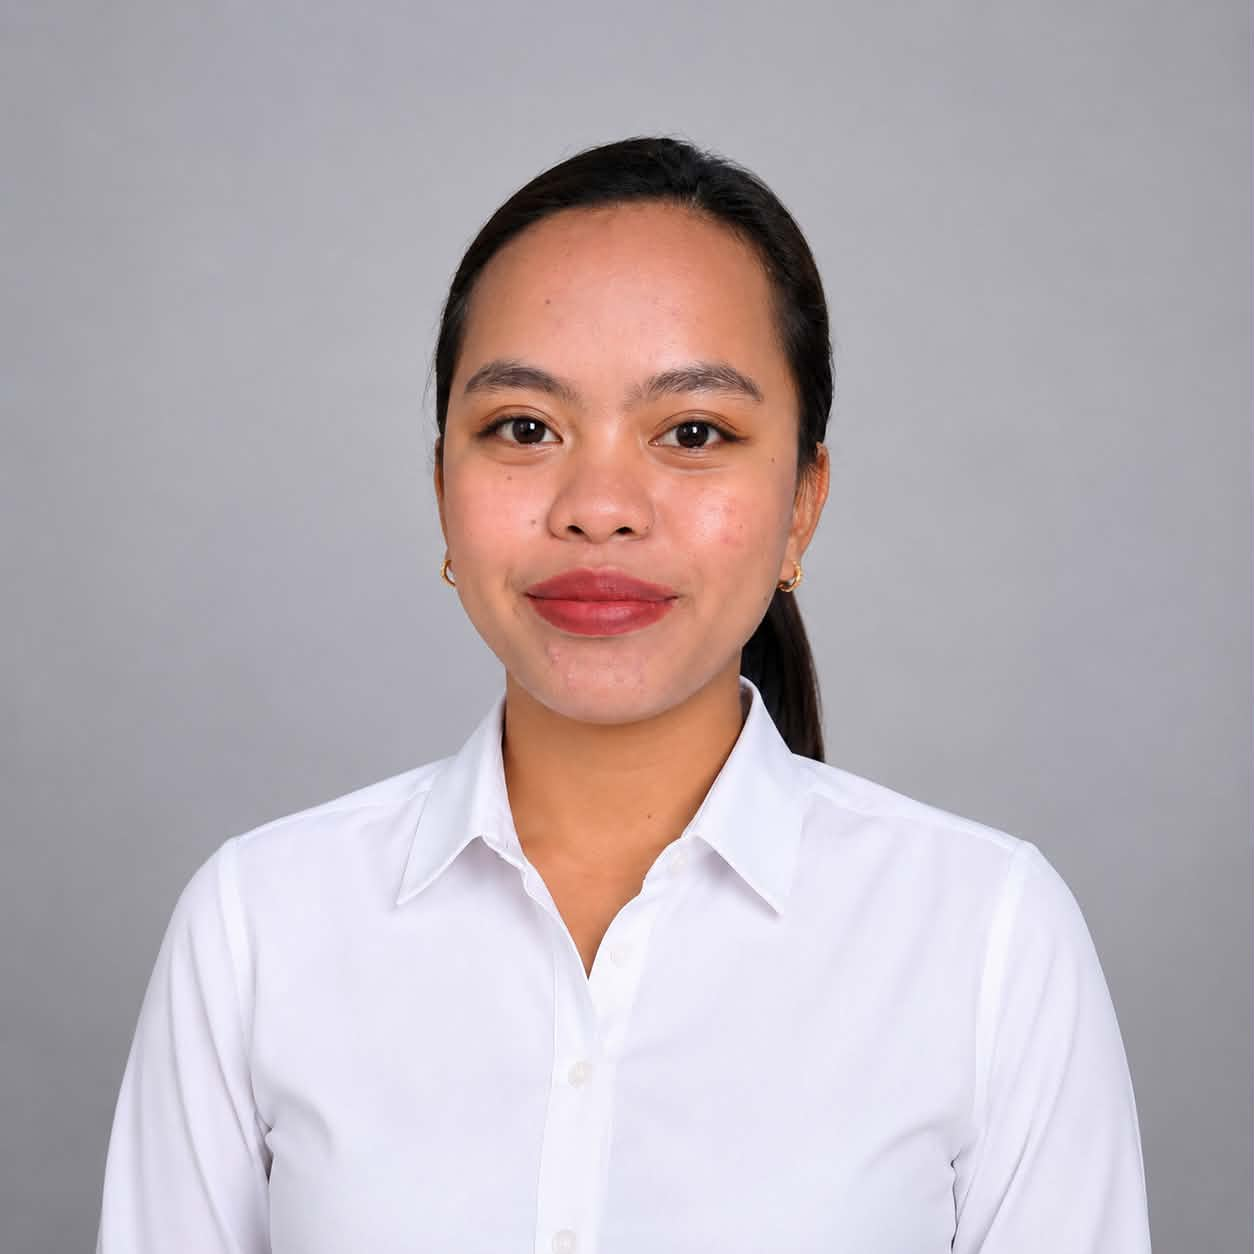
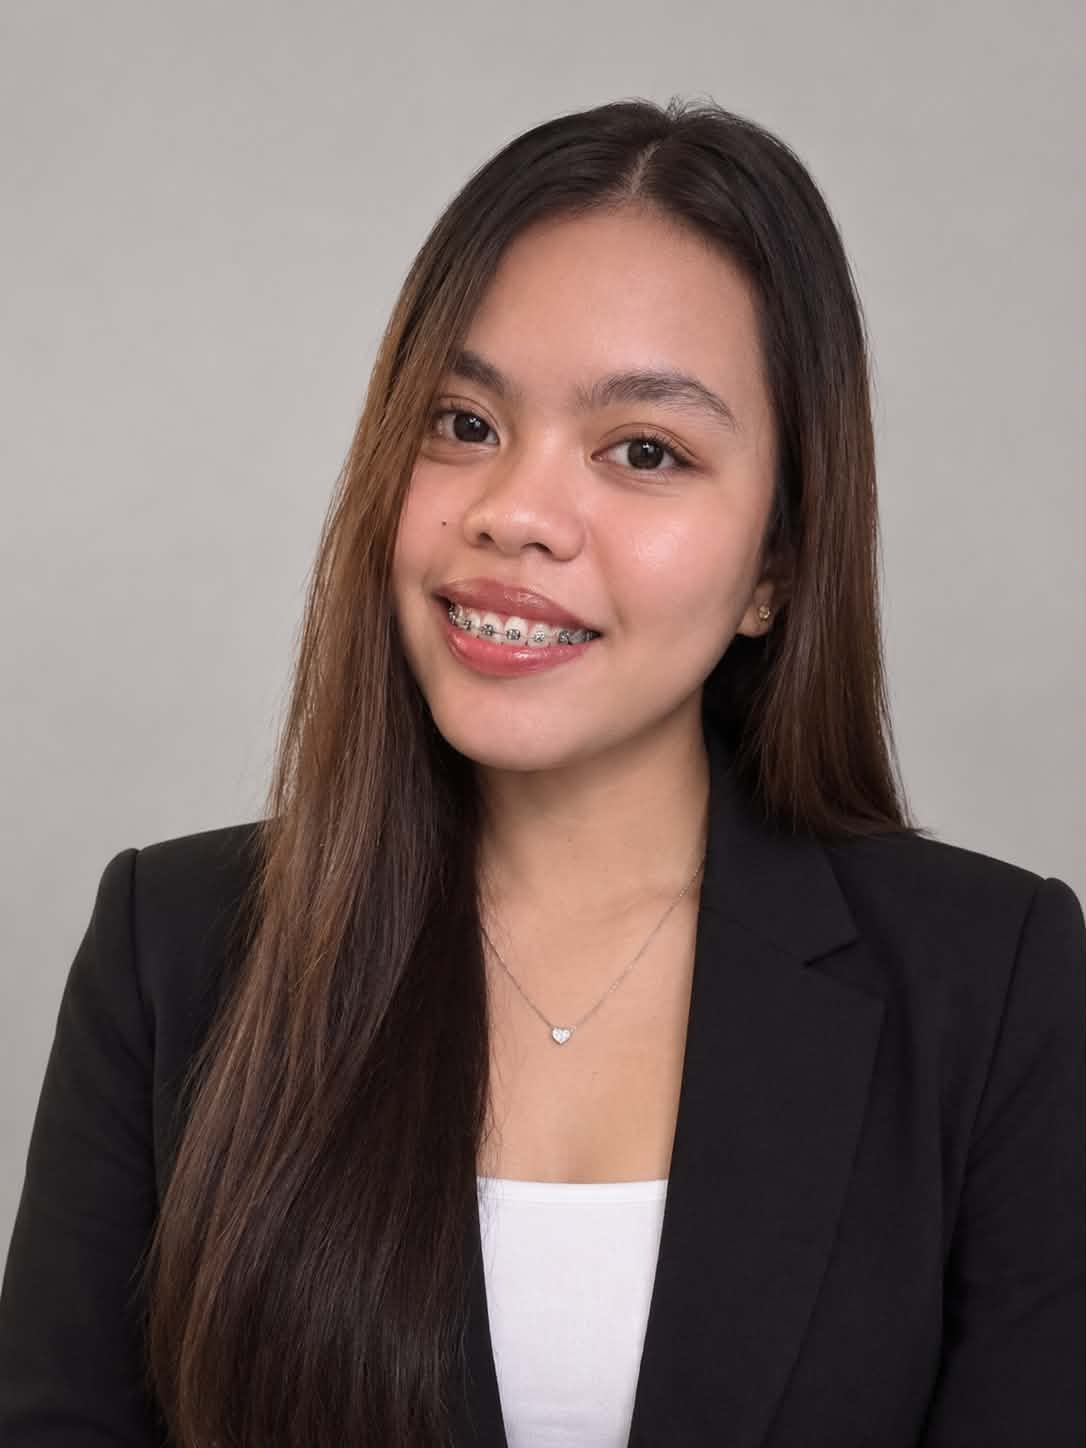
Finalize portfolio content and evidence

diff --git a/index.html b/index.html
@@ -8,6 +8,7 @@
   <link rel="preconnect" href="https://fonts.googleapis.com">
   <link rel="preconnect" href="https://fonts.gstatic.com" crossorigin>
   <link href="https://fonts.googleapis.com/css2?family=DM+Sans:wght@400;500;600;700&family=Plus+Jakarta+Sans:wght@400;500;600;700;800&display=swap" rel="stylesheet">
+  <link rel="icon" type="image/jpeg" href="img/profile/profile1.jpg">
   <link rel="stylesheet" href="css/style.css">
   <link rel="stylesheet" href="css/responsive.css">
   <link rel="stylesheet" href="css/strategy-carousel.css">
@@ -17,6 +18,9 @@
   <link rel="stylesheet" href="css/results-row.css">
   <link rel="stylesheet" href="css/online-results.css">
   <link rel="stylesheet" href="css/hero-portrait.css">
+  <link rel="stylesheet" href="css/profile-portrait.css">
+  <link rel="stylesheet" href="css/strategy-words.css">
+  <link rel="stylesheet" href="css/reflection-status.css">
   <link rel="stylesheet" href="css/print.css" media="print">
 </head>
 <body>
@@ -50,7 +54,7 @@
     <section class="section-shell about-section" id="about">
       <div class="section-intro reveal"><p class="eyebrow">01 / the person behind the work</p><h2>About <em>me</em></h2><p class="section-subtitle">The aspiring educator behind this journey.</p></div>
       <div class="about-grid">
-        <aside class="profile-panel reveal"><div class="mini-portrait"><img src="img/profile/profile1.jpg" alt="Portrait of Cindy Pearl E. Gonzaga"></div><div class="profile-details"><p class="label">Student profile</p><h3 id="about-name">Cindy Pearl E. Gonzaga</h3><dl><div><dt>Program</dt><dd>BSEd Social Studies</dd></div><div><dt>Standing</dt><dd>4th year · 22 years old</dd></div><div><dt>Course</dt><dd>ISED 2</dd></div><div><dt>Institution</dt><dd>[Add institution]</dd></div></dl></div><div class="profile-tag">future educator <span>↗</span></div></aside>
+        <aside class="profile-panel reveal"><div class="mini-portrait"><img src="img/profile/profile1.jpg" alt="Portrait of Cindy Pearl E. Gonzaga"></div><div class="profile-details"><p class="label">Student profile</p><h3 id="about-name">Cindy Pearl E. Gonzaga</h3><dl><div><dt>Program</dt><dd>BSEd Social Studies</dd></div><div><dt>Standing</dt><dd>4th year · 22 years old</dd></div><div><dt>Course</dt><dd>ISED 2</dd></div><div><dt>Institution</dt><dd>Bukidnon State University</dd></div></dl></div><div class="profile-tag">future educator <span>↗</span></div></aside>
         <div class="about-copy reveal reveal-delay"><p class="label coral-label">A note from me</p><div class="editable-copy"><h3>Who I am</h3>
             <p>I am Cindy Pearl E. Gonzaga, an aspiring Social Studies teacher with a heart full of dreams and a willingness to learn. I may not have everything figured out yet, but I carry a strong desire to grow, improve, and become someone my future students can look up to. Behind this journey is a person who is still learning, making mistakes, and finding her way toward the dream she hopes to fulfill someday.</p><h3>Why I want to become a teacher</h3><p>I want to become a teacher because I believe that every child deserves someone who believes in them, especially when they struggle to believe in themselves. I want to be more than a teacher who stands in front of a classroom; I want to be someone who listens, understands, and inspires. Someday, I hope my students will remember me not only for the lessons I taught but also for the kindness I showed and the difference I made in their lives.</p><h3>My learning mindset</h3><p>I know that becoming a good teacher does not happen overnight. There will be moments when I doubt myself, make mistakes, and feel that I am not doing enough. But I choose to keep learning, because every challenge brings me closer to the teacher I dream of becoming. I may not be the best teacher today, but I promise to keep growing, because someday, a student might need the very best version of me.</p></div></div>
       </div>
@@ -71,8 +75,7 @@
         <div class="strategy-story-copy"><p class="label coral-label">My approach to examinations</p><h3>Learning is more than a score.</h3><p>Before a test, I review my notes, focus on important lessons, and manage my time to prepare well. I try to understand the topics rather than simply memorize them. Although I sometimes feel nervous, I remind myself to stay focused and trust the effort I have given.</p><p>During a test, I carefully read each question, answer the easiest ones first, and use the elimination method when I am unsure. I also manage my time wisely and remain calm so I can think clearly.</p><p>These strategies help me become more confident, disciplined, and responsible as a learner. I believe that tests are not only about getting high scores but also about discovering what I know and what I still need to improve.</p><blockquote>Every examination is an opportunity to learn, grow, and become better — not only as a student but also as a future teacher.</blockquote></div>
       </div>
       <div class="strategy-tabs" role="tablist" aria-label="Test-taking phases"><button class="strategy-tab active" role="tab" aria-selected="true" data-tab="before">Before the test</button><button class="strategy-tab" role="tab" aria-selected="false" data-tab="during">During the test</button><button class="strategy-tab" role="tab" aria-selected="false" data-tab="after">After the test</button></div>
-      <div class="strategy-grid" id="strategy-grid"></div>
-      <div class="strategy-footer"><div class="personal-strategy"><p class="label coral-label">My most effective strategy</p><h3 contenteditable="true">[Name the strategy that works best for you]</h3><p contenteditable="true">[Explain why this strategy supports your learning and how you know it helps.]</p></div><div class="checklist-panel"><div class="panel-heading"><span class="label">Quick preparation check</span><span class="check-count" id="check-count">0 / 5</span></div><div id="prep-checklist"></div></div></div>
+      <div class="strategy-words" id="strategy-grid"></div>
     </section>
 
     <section class="section-shell results-section" id="results">
@@ -84,6 +87,10 @@
         <figure class="row-evidence-card reveal"><button class="row-image-button" type="button" data-result-image="img/Test_Results_and_Compilation/Test_Results_and_Compilation3.png" data-result-title="Professional Education Assessment 03"><img src="img/Test_Results_and_Compilation/Test_Results_and_Compilation3.png" alt="Professional Education assessment evidence 3"></button><figcaption><span>Evidence 03</span><h3>Professional Education assessment</h3><p>Score: <strong contenteditable="true">10/10</strong></p></figcaption></figure>
         <figure class="row-evidence-card reveal"><button class="row-image-button" type="button" data-result-image="img/Test_Results_and_Compilation/Test_Results_and_Compilation4.png" data-result-title="Professional Education Assessment 04"><img src="img/Test_Results_and_Compilation/Test_Results_and_Compilation4.png" alt="Professional Education assessment evidence 4"></button><figcaption><span>Evidence 04</span><h3>Professional Education assessment</h3><p>Score: <strong contenteditable="true">9/10</strong></p></figcaption></figure>
       </div>
+      <div class="results-subheading"><p class="label coral-label">Summative assessment</p><h3>Summative test evidence</h3></div>
+      <div class="results-row summative-results-row" aria-label="Summative test evidence row">
+        <figure class="row-evidence-card reveal"><button class="row-image-button" type="button" data-result-image="img/summativetest/summativetest1.jpg" data-result-title="Summative Test"><img src="img/summativetest/summativetest1.jpg" alt="Summative test evidence for Cindy Pearl E. Gonzaga"></button><figcaption><span>Summative test 01</span><h3>Summative Test</h3><p>Score: <strong contenteditable="true">60</strong></p></figcaption></figure>
+      </div>
       <div class="results-subheading"><p class="label coral-label">Online assessments</p><h3>Online quiz evidence</h3></div>
       <div class="results-row online-results-row" aria-label="Online quiz evidence row">
         <figure class="row-evidence-card reveal"><button class="row-image-button" type="button" data-result-image="img/onlinequiz/onlinequiz1.png" data-result-title="Prof Ed 1 Long Quiz"><img src="img/onlinequiz/onlinequiz1.png" alt="Prof Ed 1 Long Quiz result screenshot"></button><figcaption><span>Online quiz 01</span><h3>Prof Ed 1 Long Quiz</h3><p>Score: <strong contenteditable="true">43/50</strong></p></figcaption></figure>
@@ -94,18 +101,16 @@
       </div>
     </section>
 
-    <section class="section-shell timeline-section"><div class="section-intro reveal"><p class="eyebrow">04 / the semester in motion</p><h2>A learning <em>timeline</em></h2><p class="section-subtitle">A flexible map of moments worth noticing.</p></div><div class="timeline" id="timeline"></div></section>
+    <section class="section-shell reflection-section" id="midterm"><div class="section-intro split-intro reveal"><div><p class="eyebrow">04 / pause and notice</p><h2>Midterm<br><em>reflection</em></h2></div><p class="section-subtitle">Understanding my progress during the first half of the semester.</p></div><div class="reflection-pending reveal"><span class="pending-mark">—</span><div><p class="label">Status update</p><h3>Midterm reflection not yet available</h3><p>This space will be completed after the midterm assessments and personal reflection are finished.</p></div></div></section>
 
-    <section class="section-shell reflection-section" id="midterm"><div class="section-intro split-intro reveal"><div><p class="eyebrow">05 / pause and notice</p><h2>Midterm<br><em>reflection</em></h2></div><p class="section-subtitle">Understanding my progress during the first half of the semester.</p></div><div class="reflection-layout"><div class="journal-card reveal"><span class="journal-stamp">midterm notes</span><div id="midterm-reflection"></div></div><aside class="goals-card reveal reveal-delay"><p class="label">Midterm learning goals</p><h3>What I carry forward</h3><div id="midterm-goals"></div></aside></div></section>
+    <section class="section-shell reflection-section final-section" id="final"><div class="section-intro split-intro reveal"><div><p class="eyebrow">05 / look back, look ahead</p><h2>Final Term<br><em>Reflection</em></h2></div><p class="section-subtitle">Growth, progress, and readiness for the teaching profession.</p></div><div class="reflection-pending reveal"><span class="pending-mark">—</span><div><p class="label">Status update</p><h3>Final-term reflection not yet available</h3><p>This space will be completed after the final-term assessments and personal reflection are finished.</p></div></div></section>
 
-    <section class="section-shell reflection-section final-section" id="final"><div class="section-intro split-intro reveal"><div><p class="eyebrow">06 / look back, look ahead</p><h2>Final Term<br><em>Reflection</em></h2></div><p class="section-subtitle">Growth, progress, and readiness for the teaching profession.</p></div><div class="reflection-layout"><div class="journal-card final-journal reveal"><span class="journal-stamp">final notes</span><div id="final-reflection"></div><div class="commitment"><p class="label coral-label">My commitment as a future educator</p><p contenteditable="true">My journey as a future educator continues beyond the classroom. Every examination, challenge, and reflection offers an opportunity to become more prepared, responsible, and committed to the teaching profession.</p></div></div><aside class="comparison-card reveal reveal-delay"><p class="label">Midterm <span>→</span> Final term</p><div class="comparison-block"><span>Lessons learned</span><p contenteditable="true">[What did I learn first?]</p></div><div class="comparison-block"><span>Strategies refined</span><p contenteditable="true">[What changed in my approach?]</p></div><div class="comparison-block"><span>Continued growth</span><p contenteditable="true">[What remains important next?]</p></div></aside></div></section>
-
-    <section class="section-shell goals-section"><div class="progress-summary"><div class="summary-lead"><p class="eyebrow">07 / keep becoming</p><h2>Small steps,<br><em>steady growth.</em></h2><p>Learning is not a finished checklist. It is a practice I return to with curiosity and care.</p></div><div class="summary-stats"><div><strong id="strategy-count">0</strong><span>strategies explored</span></div><div><strong id="assessment-count">0</strong><span>assessments documented</span></div><div><strong>2</strong><span>reflection spaces</span></div></div></div><div class="goals-list"><div><p class="label">Personal learning goals</p><h3>What I am working toward</h3></div><div id="learning-goals"></div></div></section>
+    <section class="section-shell goals-section"><div class="progress-summary"><div class="summary-lead"><p class="eyebrow">06 / keep becoming</p><h2>Small steps,<br><em>steady growth.</em></h2><p>Learning is not a finished checklist. It is a practice I return to with curiosity and care.</p></div><div class="summary-stats"><div><strong id="strategy-count">0</strong><span>strategies explored</span></div><div><strong id="assessment-count">0</strong><span>assessments documented</span></div><div><strong>2</strong><span>reflection spaces</span></div></div></div></section>
   </main>
 
-  <footer class="site-footer"><div><a class="brand footer-brand" href="#home"><span class="brand-mark">CP</span><span>Learning<br><em>journey</em></span></a><p>Learning, reflecting, and growing toward the teaching profession.</p></div><div class="footer-details"><p><strong>ISED 2</strong><br>Seminar in Professional Education</p><p><strong id="footer-name">Cindy Pearl E. Gonzaga</strong><br>[Institution Name] · [Academic Year]</p></div><div class="footer-links"><a href="#about">About</a><a href="#strategies">Strategies</a><a href="#results">Results</a><a href="#midterm">Reflections</a></div></footer>
+  <footer class="site-footer"><div><a class="brand footer-brand" href="#home"><span class="brand-mark">CP</span><span>Learning<br><em>journey</em></span></a><p>Learning, reflecting, and growing toward the teaching profession.</p></div><div class="footer-details"><p><strong>ISED 2</strong><br>Seminar in Professional Education</p><p><strong id="footer-name">Cindy Pearl E. Gonzaga</strong><br>Bukidnon State University · 2026/2027</p></div><div class="footer-links"><a href="#about">About</a><a href="#strategies">Strategies</a><a href="#results">Results</a><a href="#midterm">Reflections</a></div></footer>
   <button class="back-top" id="back-top" type="button" aria-label="Back to top">↑</button>
-  <div class="modal" id="evidence-modal" aria-hidden="true" role="dialog" aria-modal="true" aria-labelledby="modal-title"><div class="modal-backdrop" data-close-modal></div><div class="modal-card"><button class="modal-close" data-close-modal aria-label="Close evidence viewer">×</button><p class="label">Evidence viewer</p><h2 id="modal-title">Assessment evidence</h2><div class="modal-preview" id="modal-preview"></div><p id="modal-score"></p></div></div>
+  <div class="modal" id="evidence-modal" aria-hidden="true" role="dialog" aria-modal="true" aria-labelledby="modal-title"><div class="modal-backdrop" data-close-modal onclick="document.getElementById('evidence-modal').classList.remove('open');document.getElementById('evidence-modal').setAttribute('aria-hidden','true')"></div><div class="modal-card"><button class="modal-close" data-close-modal onclick="document.getElementById('evidence-modal').classList.remove('open');document.getElementById('evidence-modal').setAttribute('aria-hidden','true')" aria-label="Close evidence viewer">×</button><p class="label">Evidence viewer</p><h2 id="modal-title">Assessment evidence</h2><div class="modal-preview" id="modal-preview"></div><p id="modal-score"></p></div></div>
   <script src="js/data.js"></script><script src="js/navigation.js"></script><script src="js/assessments.js"></script><script src="js/strategy-carousel.js"></script><script src="js/animations.js"></script><script src="js/main.js"></script><script src="js/results-gallery.js"></script>
 </body>
 </html>

diff --git a/js/assessments.js b/js/assessments.js
@@ -1,14 +1,16 @@
 const strategyGrid = document.querySelector('#strategy-grid');
 const strategyTabs = document.querySelectorAll('.strategy-tab');
-function renderStrategies(key='before'){ strategyGrid.innerHTML = portfolioData.strategies[key].map(([number,title,text]) => `<article class="strategy-card"><span class="card-number">${number}</span><h3>${title}</h3><p contenteditable="true">${text}</p></article>`).join(''); }
-strategyTabs.forEach(tab => tab.addEventListener('click', () => { strategyTabs.forEach(item => { item.classList.remove('active'); item.setAttribute('aria-selected','false'); }); tab.classList.add('active'); tab.setAttribute('aria-selected','true'); strategyGrid.classList.remove('visible'); requestAnimationFrame(() => { renderStrategies(tab.dataset.tab); strategyGrid.classList.add('visible'); }); }));
+function renderStrategies(key='before'){ if(!strategyGrid)return; const descriptions=portfolioData.strategies[key].map(([,title,text]) => `${title}: ${text}`); strategyGrid.innerHTML = `<article class="strategy-word-block"><h3>${key === 'before' ? 'Before the test' : key === 'during' ? 'During the test' : 'After the test'}</h3><p contenteditable="true">${descriptions.join(' ')}</p></article>`; }
+strategyTabs.forEach(tab => tab.addEventListener('click', () => { strategyTabs.forEach(item => { item.classList.remove('active'); item.setAttribute('aria-selected','false'); }); tab.classList.add('active'); tab.setAttribute('aria-selected','true'); renderStrategies(tab.dataset.tab); strategyGrid.classList.add('visible'); }));
 renderStrategies();
 const checklistItems = ['Review key concepts','Prepare materials and evidence','Complete a practice set','Plan time for rest','Set an intention for the exam'];
 const checklist = document.querySelector('#prep-checklist');
-checklist.innerHTML = checklistItems.map((item,index) => `<label><input type="checkbox" data-check="${index}"> <span>${item}</span></label>`).join('');
-const storedChecks = JSON.parse(localStorage.getItem('cindy-prep-checklist') || '[]');
-const updateChecks = () => { const boxes=[...checklist.querySelectorAll('input')]; const values=boxes.map(box=>box.checked); localStorage.setItem('cindy-prep-checklist', JSON.stringify(values)); document.querySelector('#check-count').textContent=`${values.filter(Boolean).length} / ${values.length}`; };
-checklist.querySelectorAll('input').forEach((box,index) => { box.checked=Boolean(storedChecks[index]); box.addEventListener('change', updateChecks); }); updateChecks();
+if(checklist){
+	checklist.innerHTML = checklistItems.map((item,index) => `<label><input type="checkbox" data-check="${index}"> <span>${item}</span></label>`).join('');
+	const storedChecks = JSON.parse(localStorage.getItem('cindy-prep-checklist') || '[]');
+	const updateChecks = () => { const boxes=[...checklist.querySelectorAll('input')]; const values=boxes.map(box=>box.checked); localStorage.setItem('cindy-prep-checklist', JSON.stringify(values)); document.querySelector('#check-count').textContent=`${values.filter(Boolean).length} / ${values.length}`; };
+	checklist.querySelectorAll('input').forEach((box,index) => { box.checked=Boolean(storedChecks[index]); box.addEventListener('change', updateChecks); }); updateChecks();
+}
 function validPercentage(record){ return Number.isFinite(record.score) && Number.isFinite(record.total) && record.total > 0 && record.score >= 0 ? (record.score / record.total) * 100 : null; }
 let activeFilter='all'; let searchText=''; let sortMode='date';
 const assessmentList=document.querySelector('#assessment-list');

diff --git a/js/main.js b/js/main.js
@@ -1,6 +1,6 @@
 document.querySelector('#hero-name').textContent=portfolioData.student.name; document.querySelector('#about-name').textContent=portfolioData.student.name; document.querySelector('#footer-name').textContent=portfolioData.student.name;
-function renderEntries(targetId, entries){ const target=document.querySelector(`#${targetId}`); target.innerHTML=entries.map(([title,text])=>`<article class="journal-entry"><h3>${title}</h3><p contenteditable="true">${text}</p></article>`).join(''); }
-renderEntries('midterm-reflection',portfolioData.reflections.midterm); renderEntries('final-reflection',portfolioData.reflections.final);
-document.querySelector('#midterm-goals').innerHTML=portfolioData.goals.map((goal,index)=>`<label><input type="checkbox" data-goal="midterm-${index}"><span contenteditable="true">${goal}</span></label>`).join(''); document.querySelector('#learning-goals').innerHTML=portfolioData.goals.map((goal,index)=>`<label><input type="checkbox" data-goal="learning-${index}"><span contenteditable="true">${goal}</span></label>`).join('');
+function renderEntries(targetId, entries){ const target=document.querySelector(`#${targetId}`); if(!target)return; target.innerHTML=entries.map(([title,text])=>`<article class="journal-entry"><h3>${title}</h3><p contenteditable="true">${text}</p></article>`).join(''); }
+renderEntries('final-reflection',portfolioData.reflections.final);
+const learningGoals=document.querySelector('#learning-goals'); if(learningGoals){ learningGoals.innerHTML=portfolioData.goals.map((goal,index)=>`<label><input type="checkbox" data-goal="learning-${index}"><span contenteditable="true">${goal}</span></label>`).join(''); }
 document.querySelector('#strategy-count').textContent=Object.values(portfolioData.strategies).flat().length;
-function renderTimeline(){document.querySelector('#timeline').innerHTML=portfolioData.milestones.map(([number,title,text])=>`<article class="timeline-item"><span class="timeline-dot"></span><span class="card-number">${number}</span><h3 contenteditable="true">${title}</h3><p contenteditable="true">${text}</p></article>`).join('');} renderTimeline();
+function renderTimeline(){ const timeline=document.querySelector('#timeline'); if(!timeline)return; timeline.innerHTML=portfolioData.milestones.map(([number,title,text])=>`<article class="timeline-item"><span class="timeline-dot"></span><span class="card-number">${number}</span><h3 contenteditable="true">${title}</h3><p contenteditable="true">${text}</p></article>`).join('');} renderTimeline();

diff --git a/css/reflection-status.css b/css/reflection-status.css
@@ -1,0 +1,1 @@
+.reflection-pending{display:flex;align-items:center;gap:28px;background:#302b2b;color:#fffad3;padding:38px 42px;border-radius:22px;max-width:800px;box-shadow:0 18px 45px rgba(48,43,43,.12)}.pending-mark{display:grid;place-items:center;width:58px;height:58px;border:2px solid #ffb1b1;border-radius:50%;color:#ffb1b1;font-size:30px;flex:0 0 auto}.reflection-pending .label{color:#ffb1b1}.reflection-pending h3{font-size:clamp(1.6rem,3vw,2.5rem);line-height:1.05;margin:10px 0}.reflection-pending p:last-child{color:rgba(255,250,211,.7);font-size:14px}@media(max-width:600px){.reflection-pending{align-items:flex-start;flex-direction:column;padding:28px}.pending-mark{width:44px;height:44px;font-size:22px}}

diff --git a/css/strategy-words.css b/css/strategy-words.css
@@ -1,0 +1,1 @@
+.strategy-words{display:block;min-height:190px}.strategy-word-block{max-width:820px;padding:28px 0;border-top:1px solid rgba(48,43,43,.22);animation:strategyWordIn .35s ease both}.strategy-word-block:first-child{border-top:0;padding-top:0}.strategy-word-block h3{font-size:clamp(1.5rem,3vw,2.2rem);line-height:1.05;letter-spacing:-.06em;margin-bottom:12px}.strategy-word-block p{font-size:16px;line-height:1.7;color:rgba(48,43,43,.78)}@keyframes strategyWordIn{from{opacity:0;transform:translateY(8px)}to{opacity:1;transform:none}}@media(max-width:600px){.strategy-word-block p{font-size:14px;line-height:1.6}}

diff --git a/js/results-gallery.js b/js/results-gallery.js
@@ -13,3 +13,11 @@ document.querySelectorAll('.row-image-button').forEach(button => {
     document.querySelector('.modal-close').focus();
   });
 });
+
+function closeResultsModal() {
+  resultsModal.classList.remove('open');
+  resultsModal.setAttribute('aria-hidden', 'true');
+}
+
+document.addEventListener('click', event => { if(event.target.closest('[data-close-modal]')) closeResultsModal(); });
+document.addEventListener('keydown', event => { if(event.key === 'Escape' && resultsModal.classList.contains('open')) closeResultsModal(); });

diff --git a/css/profile-portrait.css b/css/profile-portrait.css
@@ -1,0 +1,1 @@
+.mini-portrait{background:var(--peach)}.mini-portrait img{object-fit:contain!important;object-position:center top!important}
